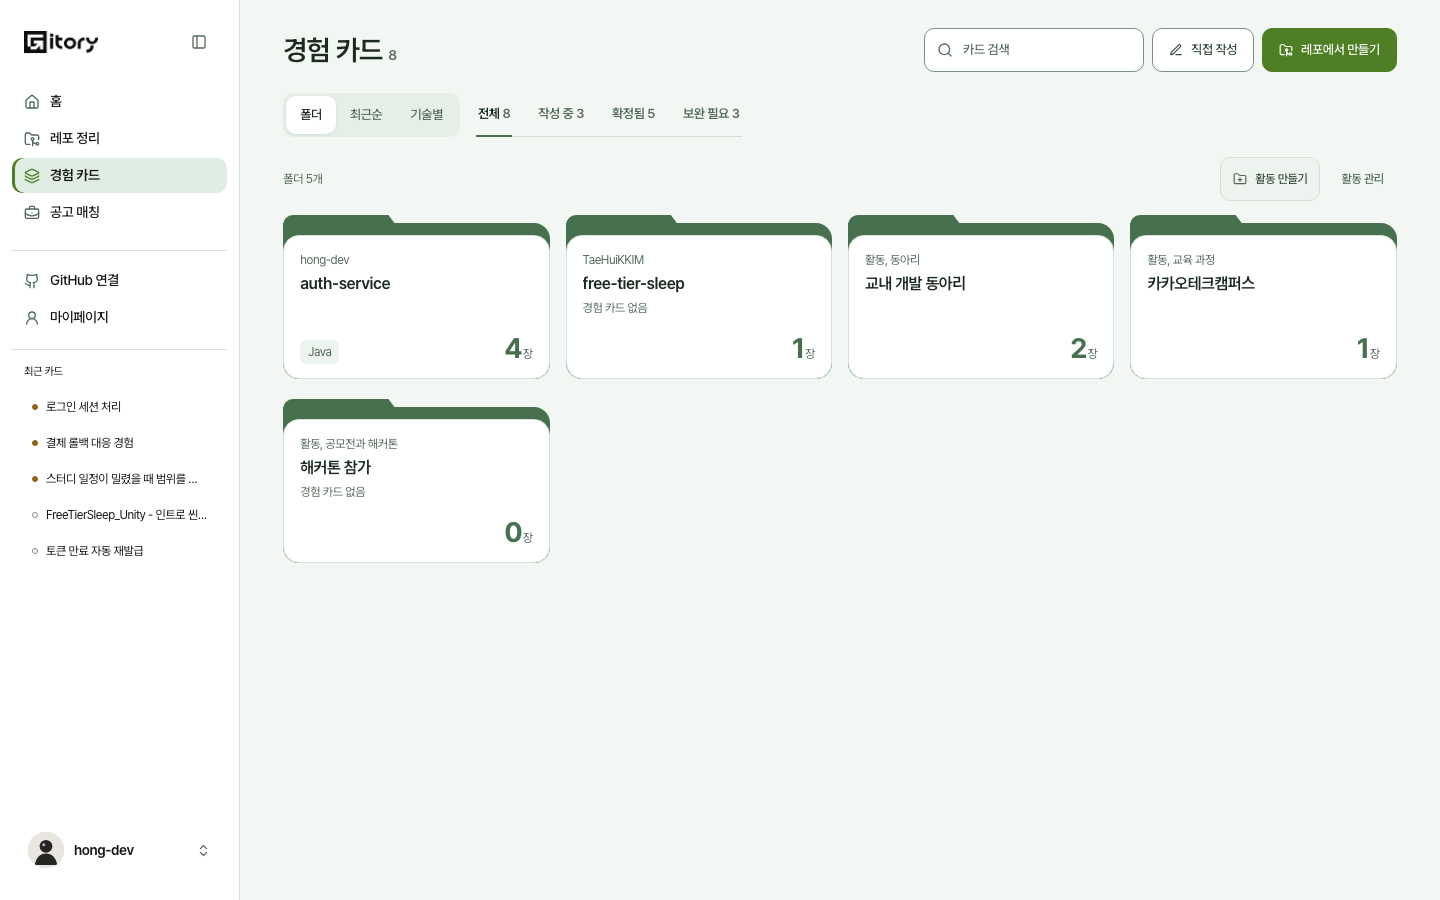
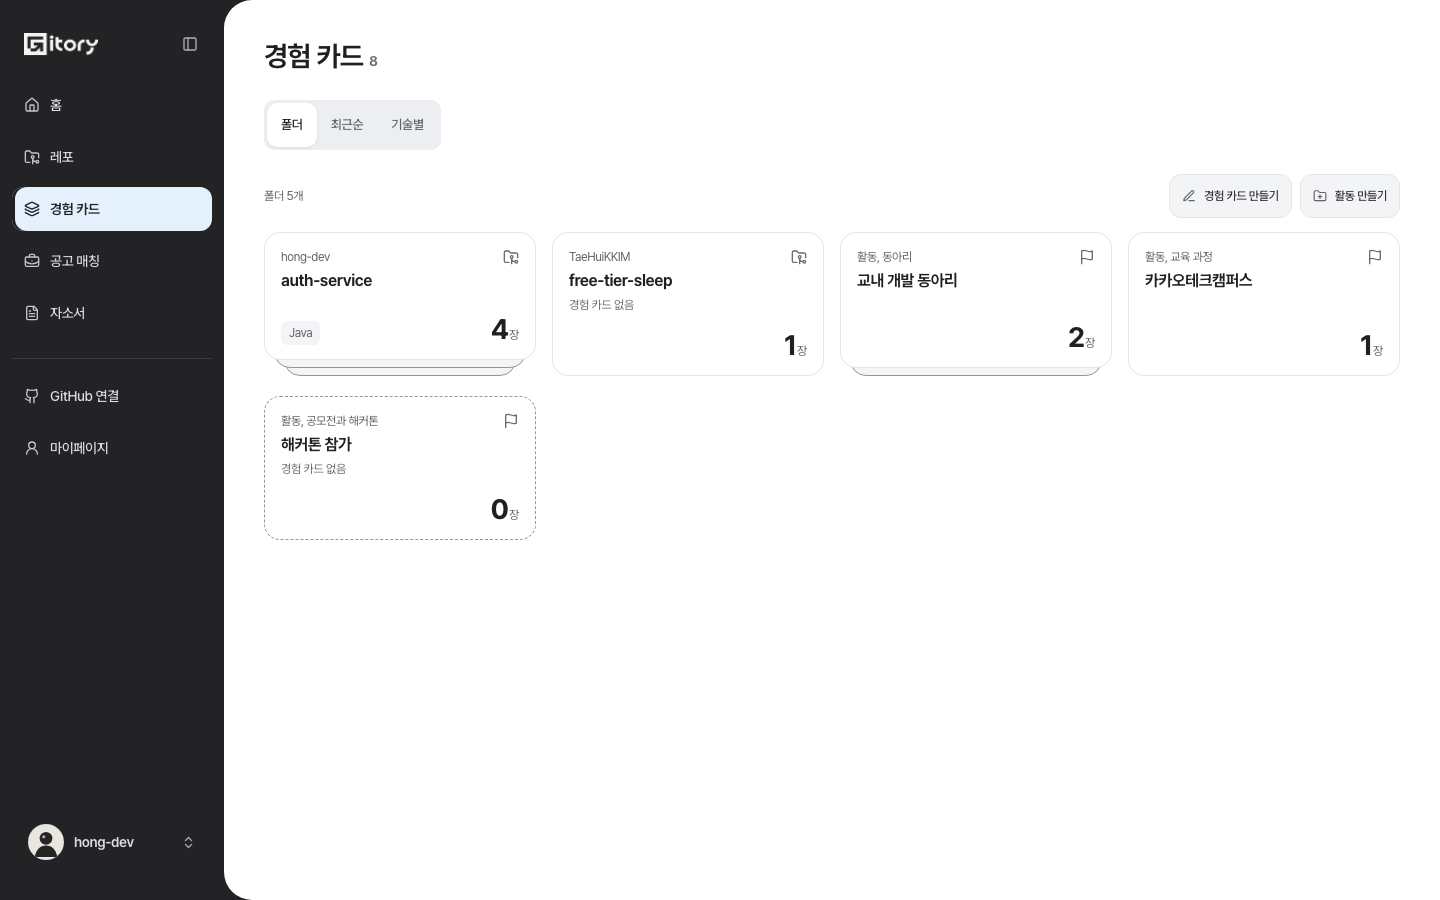
feat(fe): 경험 카드 폴더를 겹쳐 쌓인 카드 묶음 모양으로 바꾸기 (#522)
폴더 앞판이 어두운 뒤판과 탭이 붙은 파일 폴더 모양이라 경험 카드 타일과 한 화면에 놓였을 때 같은 제품으로 보이지 않았고, 폴더에 카드가 몇 장 들었는지는 숫자로만 알 수 있었다.
맨 위 카드 한 장(경험 카드 타일과 같은 바탕·테두리·모서리)이 보이고 그 뒤로 카드가 겹쳐 쌓인 모양으로 바꿨다. 겹친 수는 장 수를 따른다(1장은 겹침 없음, 2장은 한 겹, 3장 이상은 두 겹).
카드가 한 장도 없는 활동 폴더는 점선 테두리로 빈 자리임을 보이고, 첫 줄 오른쪽에 작은 아이콘을 두어 레포, 활동, 직접 쓴 카드를 가린다.
링크 이름, 글, 격자, 올리면 색만 바뀌는 규칙(움직임 없음)은 그대로다. 뒤에 겹친 카드와 아이콘은 접근성 트리에서 뺀다.

diff --git a/frontend/src/features/cards/CardFolders.css b/frontend/src/features/cards/CardFolders.css
@@ -1,7 +1,9 @@
 /*
- * 경험 카드 폴더(이슈 #522, 10/29 회의). 레포·활동마다 닫힌 폴더 하나, 카드는 폴더 밖으로 나오지 않는다.
- * 색은 토큰만 쓴다(다크 모드는 토큰이 알아서 바뀐다): 뒤판·탭 --bg-ink-solid, 앞판 --bg-surface + --border-default, 숫자 --text-accent.
- * 마우스를 올리거나 키보드로 닿으면 뒤판은 --bg-ink-hover, 앞판 테두리는 --border-selected 로 색만 바뀐다(움직임 없음).
+ * 경험 카드 폴더(이슈 #522, 10/29 회의). 레포·활동마다 카드 묶음 하나, 카드는 묶음 밖으로 나오지 않는다.
+ * 맨 위 카드는 경험 카드 타일과 같은 모양(바탕 --bg-surface, 테두리 --border-default, 모서리 --radius-lg)이고, 그 뒤로 겹쳐 보이는 카드 수가 장 수를 따른다
+ * (한 장은 겹침 없음, 두 장은 한 겹, 세 장 이상은 두 겹). 카드가 한 장도 없으면 점선 테두리다. 겹친 카드는 장식이라 글이 없다.
+ * 색은 토큰만 쓴다(다크 모드는 토큰이 알아서 바뀐다). 숫자는 --text-accent.
+ * 마우스를 올리거나 키보드로 닿으면 맨 위 카드와 겹친 카드의 테두리가 모두 --border-selected 로 색만 바뀐다(움직임 없음).
  * 폴더는 모두 같은 색 하나다. 레포마다 색을 달리하면 무지개처럼 보여 화면의 한 가지 강조색 규칙과 어긋난다.
  */
 .folders { display: flex; flex-direction: column; gap: 14px; }
@@ -13,16 +15,24 @@
 .folder-grid { display: grid; grid-template-columns: repeat(auto-fill, minmax(min(240px, 100%), 1fr)); gap: 20px 16px; }
 
 .folder-grid > li { display: flex; min-width: 0; }
-.folder { position: relative; display: flex; flex: 1 1 auto; flex-direction: column; min-width: 0; padding-top: 20px; border-radius: var(--radius-lg); color: var(--text-primary); isolation: isolate; }
-.folder__back, .folder__back::before { background: var(--bg-ink-solid); }
-.folder__back { position: absolute; z-index: -1; top: 8px; right: 0; bottom: 0; left: 0; border-radius: 0 var(--radius-lg) var(--radius-lg) var(--radius-lg); }
-/* 탭: 뒤판 왼쪽 위로 솟은 조각. 글은 넣지 않는다 */
-.folder__back::before { content: ''; position: absolute; top: -8px; left: 0; width: min(44%, 132px); height: 16px; border-radius: var(--radius-md) 0 0 0; clip-path: polygon(0 0, calc(100% - 12px) 0, 100% 100%, 0 100%); }
+.folder { --peek: 8px; --peek-inset: 10px; position: relative; display: flex; flex: 1 1 auto; flex-direction: column; min-width: 0; border-radius: var(--radius-lg); color: var(--text-primary); isolation: isolate; }
+.folder[data-deck="1"] { padding-bottom: var(--peek); }
+.folder[data-deck="2"] { padding-bottom: calc(var(--peek) * 2); }
+/* 뒤로 겹친 카드: 맨 위 카드보다 --peek 만큼 아래로 삐져나오고 양옆은 --peek-inset 씩 안쪽이다 */
+.folder__back { position: absolute; z-index: -1; inset: 0; pointer-events: none; }
+.folder__back::before, .folder__back::after { content: ''; position: absolute; display: none; top: 28px; background: var(--bg-subtle); border: 1px solid var(--border-strong); border-radius: var(--radius-lg); }
+/* ::before 가 먼 카드, ::after 가 가까운 카드다(나중에 그려지는 쪽이 위) */
+.folder[data-deck="1"] .folder__back::after { display: block; right: var(--peek-inset); bottom: 0; left: var(--peek-inset); }
+.folder[data-deck="2"] .folder__back::after { display: block; right: var(--peek-inset); bottom: var(--peek); left: var(--peek-inset); }
+.folder[data-deck="2"] .folder__back::before { display: block; right: calc(var(--peek-inset) * 2); bottom: 0; left: calc(var(--peek-inset) * 2); }
 .folder__front { position: relative; display: flex; flex: 1 1 auto; flex-direction: column; gap: 4px; min-height: 128px; padding: 16px 16px 14px; background: var(--bg-surface); border: 1px solid var(--border-default); border-radius: var(--radius-lg); }
-.folder:hover .folder__back, .folder:hover .folder__back::before,
-.folder:focus-visible .folder__back, .folder:focus-visible .folder__back::before { background: var(--bg-ink-hover); }
+.folder[data-empty] .folder__front { border-style: dashed; border-color: var(--border-strong); }
 .folder:hover .folder__front, .folder:focus-visible .folder__front { border-color: var(--border-selected); }
+.folder:hover .folder__back::before, .folder:hover .folder__back::after,
+.folder:focus-visible .folder__back::before, .folder:focus-visible .folder__back::after { border-color: var(--border-selected); }
 
+.folder__head { display: flex; align-items: center; justify-content: space-between; gap: 8px; min-width: 0; }
+.folder__kind { flex: 0 0 auto; color: var(--text-tertiary); }
 .folder__owner { font-size: 12px; line-height: 16px; color: var(--text-secondary); overflow: hidden; text-overflow: ellipsis; white-space: nowrap; }
 .folder__name { font-size: 16px; line-height: 24px; font-weight: var(--heading-weight); color: var(--text-primary);
   display: -webkit-box; -webkit-box-orient: vertical; -webkit-line-clamp: 2; overflow: hidden; overflow-wrap: anywhere; }

diff --git a/frontend/src/features/cards/CardFolders.tsx b/frontend/src/features/cards/CardFolders.tsx
@@ -1,20 +1,26 @@
 import { Link } from 'react-router-dom';
-import { FolderPlus, PenLine } from 'lucide-react';
+import { Flag, FolderGit2, FolderPlus, PenLine, type LucideIcon } from 'lucide-react';
 import { techLabels } from '@/lib/cardTags';
-import { folderLabel, folderOwnerLine, folderTitle, lacksExperience, type CardFolder } from '@/lib/cardFolders';
+import { deckLayers, folderLabel, folderOwnerLine, folderTitle, lacksExperience, type CardFolder, type FolderKind } from '@/lib/cardFolders';
 import './CardFolders.css';
 
+const kindIcon: Record<FolderKind, LucideIcon> = { repo: FolderGit2, activity: Flag, direct: PenLine };
+
 /**
- * 폴더 앞판(닫힌 폴더). 폴더 전체가 링크 하나라 키보드로 열고, 이름에는 소유자·이름·장 수가 모두 들어간다(folderLabel).
- * 장식(뒤판과 탭)은 접근성 트리에서 뺀다. 탭에는 글을 넣지 않는다.
- * 숫자는 서버가 준 카드를 센 값이다.
+ * 폴더 앞판(카드 묶음). 맨 위 카드 한 장이 보이고, 그 뒤로 카드가 겹쳐 쌓인 모양이다 — 겹친 수는 장 수를 따른다(deckLayers).
+ * 폴더 전체가 링크 하나라 키보드로 열고, 이름에는 소유자·이름·장 수가 모두 들어간다(folderLabel).
+ * 장식(뒤에 겹친 카드와 종류 아이콘)은 접근성 트리에서 뺀다. 숫자는 서버가 준 카드를 센 값이다.
  */
 export function FolderTile({ folder }: { folder: CardFolder }) {
+  const Icon = kindIcon[folder.kind];
   return (
-    <Link to={folder.to} className="folder" aria-label={folderLabel(folder)}>
+    <Link to={folder.to} className="folder" aria-label={folderLabel(folder)} data-deck={deckLayers(folder.cards.length)} data-empty={folder.cards.length === 0 || undefined}>
       <span className="folder__back" aria-hidden />
       <span className="folder__front">
-        <span className="folder__owner">{folderOwnerLine(folder)}</span>
+        <span className="folder__head">
+          <span className="folder__owner">{folderOwnerLine(folder)}</span>
+          <Icon className="folder__kind" size={16} aria-hidden />
+        </span>
         <span className="folder__name">{folderTitle(folder)}</span>
         {lacksExperience(folder) && <span className="folder__note">경험 카드 없음</span>}
         <span className="folder__foot">

diff --git a/frontend/e2e/activities-folders-522.spec.ts b/frontend/e2e/activities-folders-522.spec.ts
@@ -94,18 +94,16 @@ test('폴더는 키보드로 열고, 위에 두면 색만 바뀐다', async ({ p
   await page.goto('/cards');
   const auth = folder(page, /^레포 hong-dev, auth-service/);
   await expect(auth).toBeVisible();
-  const before = await auth.evaluate((el) => {
+  const read = (el: Element) => {
     const back = el.querySelector('.folder__back')!, front = el.querySelector('.folder__front')!;
-    return { back: getComputedStyle(back).backgroundColor, tab: getComputedStyle(back, '::before').backgroundColor, border: getComputedStyle(front).borderColor, box: JSON.stringify(el.getBoundingClientRect()), transform: getComputedStyle(el).transform };
-  });
+    return { layer: getComputedStyle(back, '::before').borderTopColor, layer2: getComputedStyle(back, '::after').borderTopColor, border: getComputedStyle(front).borderColor, box: JSON.stringify(el.getBoundingClientRect()), transform: getComputedStyle(el).transform };
+  };
+  const before = await auth.evaluate(read);
   await auth.hover();
-  const after = await auth.evaluate((el) => {
-    const back = el.querySelector('.folder__back')!, front = el.querySelector('.folder__front')!;
-    return { back: getComputedStyle(back).backgroundColor, tab: getComputedStyle(back, '::before').backgroundColor, border: getComputedStyle(front).borderColor, box: JSON.stringify(el.getBoundingClientRect()), transform: getComputedStyle(el).transform };
-  });
-  expect(after.back).not.toBe(before.back); // 뒤판 --bg-ink-hover
-  expect(after.tab).toBe(after.back); // 탭은 뒤판과 한 색
-  expect(after.border).not.toBe(before.border); // 앞판 테두리 초록
+  const after = await auth.evaluate(read);
+  expect(after.border).not.toBe(before.border); // 맨 위 카드 테두리
+  expect(after.layer).not.toBe(before.layer); // 겹친 카드 테두리
+  expect(after.layer2).toBe(after.layer); // 겹친 카드는 한 색
   expect(after.box).toBe(before.box); // 움직임 없음
   expect(after.transform).toBe(before.transform);
 

diff --git a/frontend/src/test/activities-pages-522.test.tsx b/frontend/src/test/activities-pages-522.test.tsx
@@ -51,9 +51,17 @@ describe('경험 카드 목록의 폴더 보기 (#522)', () => {
     expect(screen.getByRole('link', { name: FOLDERS.contest })).toHaveAttribute('href', '/cards/activity/act_contest');
     expect(screen.getByRole('radio', { name: '폴더' })).toHaveAttribute('aria-checked', 'true');
     expect(tiles()).toHaveLength(0);
-    // 앞판 글: 경험 카드가 없는 폴더에만 '경험 카드 없음', 장식(뒤판·탭)은 접근성 트리에서 뺀다
+    // 앞판 글: 경험 카드가 없는 폴더에만 '경험 카드 없음', 장식(뒤에 겹친 카드)은 접근성 트리에서 뺀다
     expect(screen.getAllByText('경험 카드 없음')).toHaveLength(2);
     expect(auth.querySelector('.folder__back')).toHaveAttribute('aria-hidden', 'true');
+    // 뒤로 겹쳐 보이는 카드는 장 수를 따르고(4장 두 겹, 2장 한 겹, 1장 없음), 카드가 없는 폴더만 점선(data-empty)이다
+    expect(auth).toHaveAttribute('data-deck', '2');
+    expect(screen.getByRole('link', { name: FOLDERS.club })).toHaveAttribute('data-deck', '1');
+    expect(screen.getByRole('link', { name: FOLDERS.fts })).toHaveAttribute('data-deck', '0');
+    expect(screen.getByRole('link', { name: FOLDERS.contest })).toHaveAttribute('data-empty', 'true');
+    expect(auth).not.toHaveAttribute('data-empty');
+    // 종류 아이콘도 장식이다
+    expect(auth.querySelector('.folder__kind')).toHaveAttribute('aria-hidden', 'true');
     // 직접 쓴 카드가 없으니 그 폴더도 없다
     expect(screen.queryByRole('link', { name: /직접 쓴 카드/ })).not.toBeInTheDocument();
   });

diff --git a/frontend/src/test/card-folders-522.test.ts b/frontend/src/test/card-folders-522.test.ts
@@ -1,7 +1,7 @@
 import { describe, expect, it } from 'vitest';
 import { Activity } from '@/api/activities';
 import { CardSummary } from '@/api/schemas';
-import { buildFolders, folderLabel, lacksExperience, topTechs } from '@/lib/cardFolders';
+import { buildFolders, deckLayers, folderLabel, lacksExperience, topTechs } from '@/lib/cardFolders';
 
 const card = (id: string, over: Record<string, unknown> = {}) => CardSummary.parse({
   id, kind: 'TECH', status: 'DRAFT', title: id, versionNo: 1, areas: [], techs: [], repo: null, activity: null,
@@ -87,5 +87,11 @@ describe('경험 카드 폴더 묶기 (#522)', () => {
     expect(folderLabel(folders['activity:a_empty'])).toBe('활동, 공모전과 해커톤, 해커톤 참가, 카드 0장, 경험 카드 없음');
     expect(folderLabel(folders['activity:a_club'])).toBe('활동, 동아리, 교내 개발 동아리, 카드 2장');
     expect(folderLabel(folders.direct)).toBe('레포와 활동 없이 쓴 카드, 직접 쓴 카드, 카드 1장');
+  });
+});
+
+describe('폴더 앞판 뒤로 겹쳐 보이는 카드 수 (#522)', () => {
+  it('한 장은 겹치지 않고 둘은 한 겹, 셋 이상은 두 겹으로 멈춘다', () => {
+    expect([0, 1, 2, 3, 4, 8, 100].map(deckLayers)).toEqual([0, 0, 1, 2, 2, 2, 2]);
   });
 });

diff --git a/frontend/src/lib/cardFolders.ts b/frontend/src/lib/cardFolders.ts
@@ -98,6 +98,9 @@ export function buildFolders(cards: readonly CardSummary[], activities?: readonl
   return folders;
 }
 
+/** 폴더 앞판 뒤로 겹쳐 보일 카드 수. 한 장이면 겹치지 않고, 둘이면 하나, 셋 이상은 둘이다(더 쌓아도 모양이 늘지 않게 한다). 정확한 수는 숫자가 말한다 */
+export const deckLayers = (count: number): 0 | 1 | 2 => (count >= 3 ? 2 : count === 2 ? 1 : 0);
+
 /** 경험 카드(직접 쓴 정성 카드)가 한 장도 없는 폴더. 앞판에 '경험 카드 없음'을 적어 더 쓸 곳을 보여 준다. 직접 쓴 카드 폴더는 해당 없다 */
 export const lacksExperience = (folder: CardFolder) => folder.kind !== 'direct' && folder.experienceCount === 0;
 

diff --git a/frontend/docs/2026-10-31-ACTIVITIES_AND_FOLDERS.md b/frontend/docs/2026-10-31-ACTIVITIES_AND_FOLDERS.md
@@ -6,7 +6,7 @@ BE #477(활동 API, 계약 #475 1·2절)이 머지됐는데 화면이 없었다.
 
 | 화면 | 주소 | 하는 일 |
 | --- | --- | --- |
-| 경험 카드 목록, 폴더 보기(기본) | `/cards` | 레포·활동마다 닫힌 폴더 하나. 누르면 폴더 안으로 |
+| 경험 카드 목록, 폴더 보기(기본) | `/cards` | 레포·활동마다 겹쳐 쌓인 카드 묶음 하나. 누르면 폴더 안으로 |
 | 레포 폴더 안 | `/cards/repo/:repoId` | 소유자, 레포 이름, 카드 수, 후보 보드 버튼, 기술 카드와 경험 카드 두 구역 |
 | 활동 폴더 안 | `/cards/activity/:activityId` | 활동 정보(종류, 기간, 역할), 경험 카드 만들기, 활동 고치기, 활동 삭제 |
 | 직접 쓴 카드 폴더 안 | `/cards/direct` | 레포도 활동도 없는 카드 |
@@ -20,9 +20,10 @@ BE #477(활동 API, 계약 #475 1·2절)이 머지됐는데 화면이 없었다.
 
 시안(성준 님, 이슈 댓글)을 베끼지 않고 앱의 토큰과 규칙에 맞췄다.
 
-- 한 폴더 = 링크 하나. 키보드로 열고, 접근성 이름에 소유자·이름·장 수·`경험 카드 없음`·기술이 모두 들어간다(`folderLabel`). 뒤판과 탭은 장식이라 접근성 트리에서 뺀다.
-- 색은 토큰만. 뒤판·탭 `--bg-ink-solid`, 앞판 `--bg-surface` + `--border-default`, 숫자 `--text-accent`. 올리거나 키보드로 닿으면 뒤판 `--bg-ink-hover`, 앞판 테두리 `--border-selected`로 **색만** 바뀐다. 다크 모드는 같은 토큰이고, 폴더는 모두 같은 색 하나다.
-- 첫 줄은 레포면 소유자, 활동이면 `활동, 종류`. 이름은 두 줄까지. 탭에는 글이 없다.
+- 한 폴더 = 링크 하나. 키보드로 열고, 접근성 이름에 소유자·이름·장 수·`경험 카드 없음`·기술이 모두 들어간다(`folderLabel`). 뒤에 겹친 카드와 종류 아이콘은 장식이라 접근성 트리에서 뺀다.
+- 모양은 카드 묶음이다. 맨 위 카드 한 장(경험 카드 타일과 같은 바탕·테두리·모서리)이 보이고, 그 뒤로 겹쳐 보이는 카드 수는 장 수를 따른다(`deckLayers`: 1장은 겹침 없음, 2장은 한 겹, 3장 이상은 두 겹). 카드가 한 장도 없는 폴더(활동만)는 점선 테두리다. 정확한 수는 큰 숫자가 말하고 겹침은 장식이다. 첫 줄 오른쪽 작은 아이콘이 레포(`FolderGit2`), 활동(`Flag`), 직접 쓴 카드(`PenLine`)를 가른다.
+- 색은 토큰만. 맨 위 카드 `--bg-surface` + `--border-default`, 뒤에 겹친 카드 `--bg-subtle` + `--border-strong`, 숫자 `--text-accent`. 올리거나 키보드로 닿으면 모든 카드 테두리가 `--border-selected`로 **색만** 바뀐다. 다크 모드는 같은 토큰이고, 폴더는 모두 같은 색 하나다.
+- 첫 줄은 레포면 소유자, 활동이면 `활동, 종류`. 이름은 두 줄까지.
 - 오른쪽 아래 큰 숫자는 서버가 준 카드를 센 전체 장 수다(기술 카드와 경험 카드 합). 왼쪽 아래는 가장 많은 카드에 붙은 기술 둘이고, 카드에 태그가 없으면 비어 있다(지어내지 않는다).
 - `경험 카드 없음`은 정성 카드(경험 카드)가 한 장도 없는 레포·활동 폴더에만 연한 글씨로 적는다. 시안에서도 `2장`이면서 `경험 카드 없음`인 레포가 있어, 이 글은 "전체 0장"이 아니라 "경험 카드를 더 쓸 곳"이라는 뜻으로 읽었다.
 - 격자는 `repeat(auto-fill, minmax(min(240px, 100%), 1fr))`. 1440에서는 4열, 390과 320에서는 한 줄에 폴더 하나.
